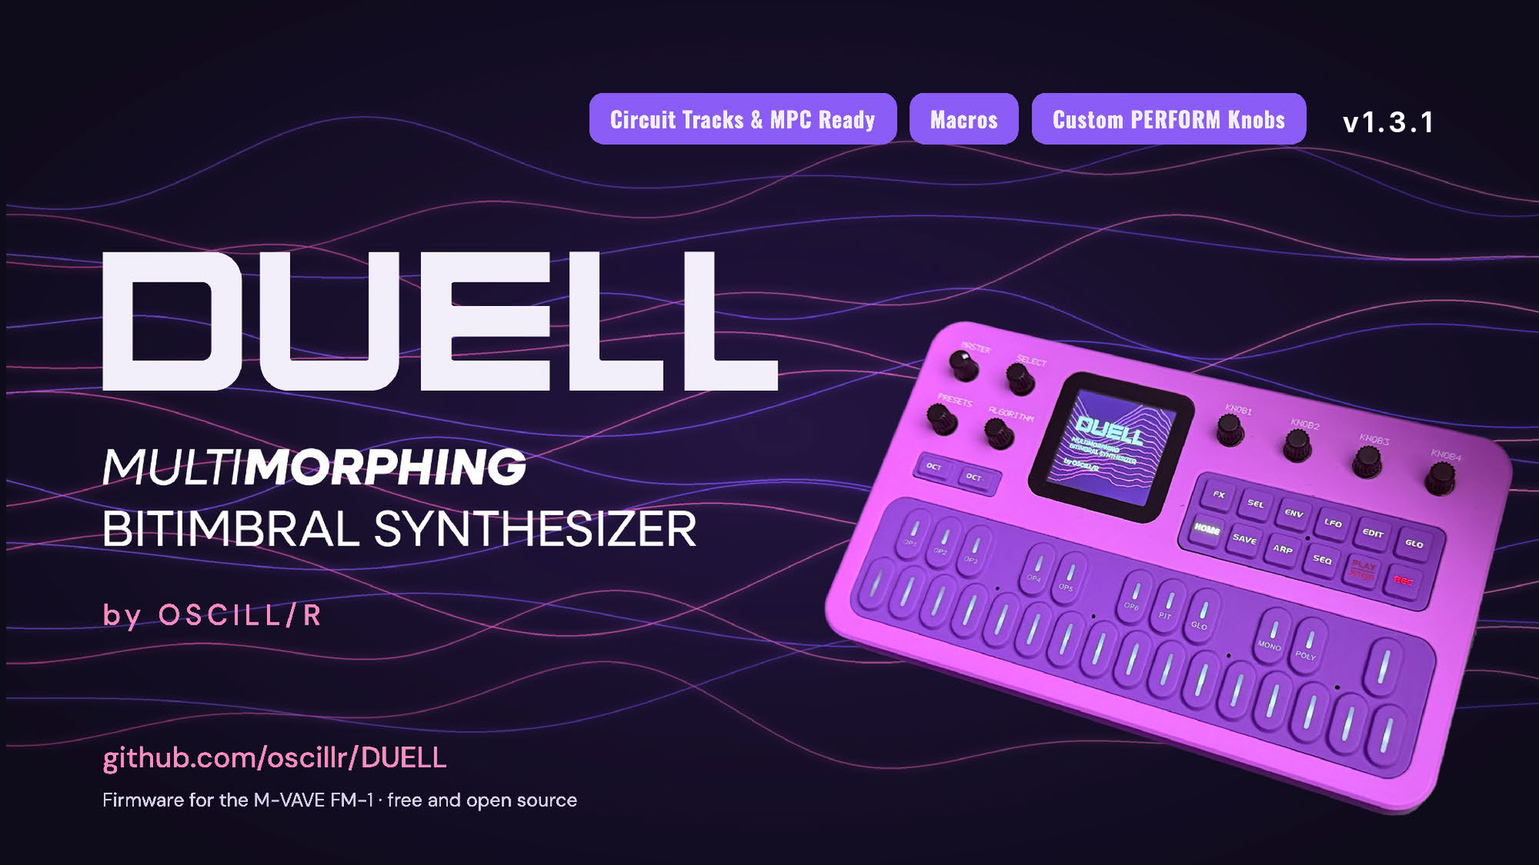
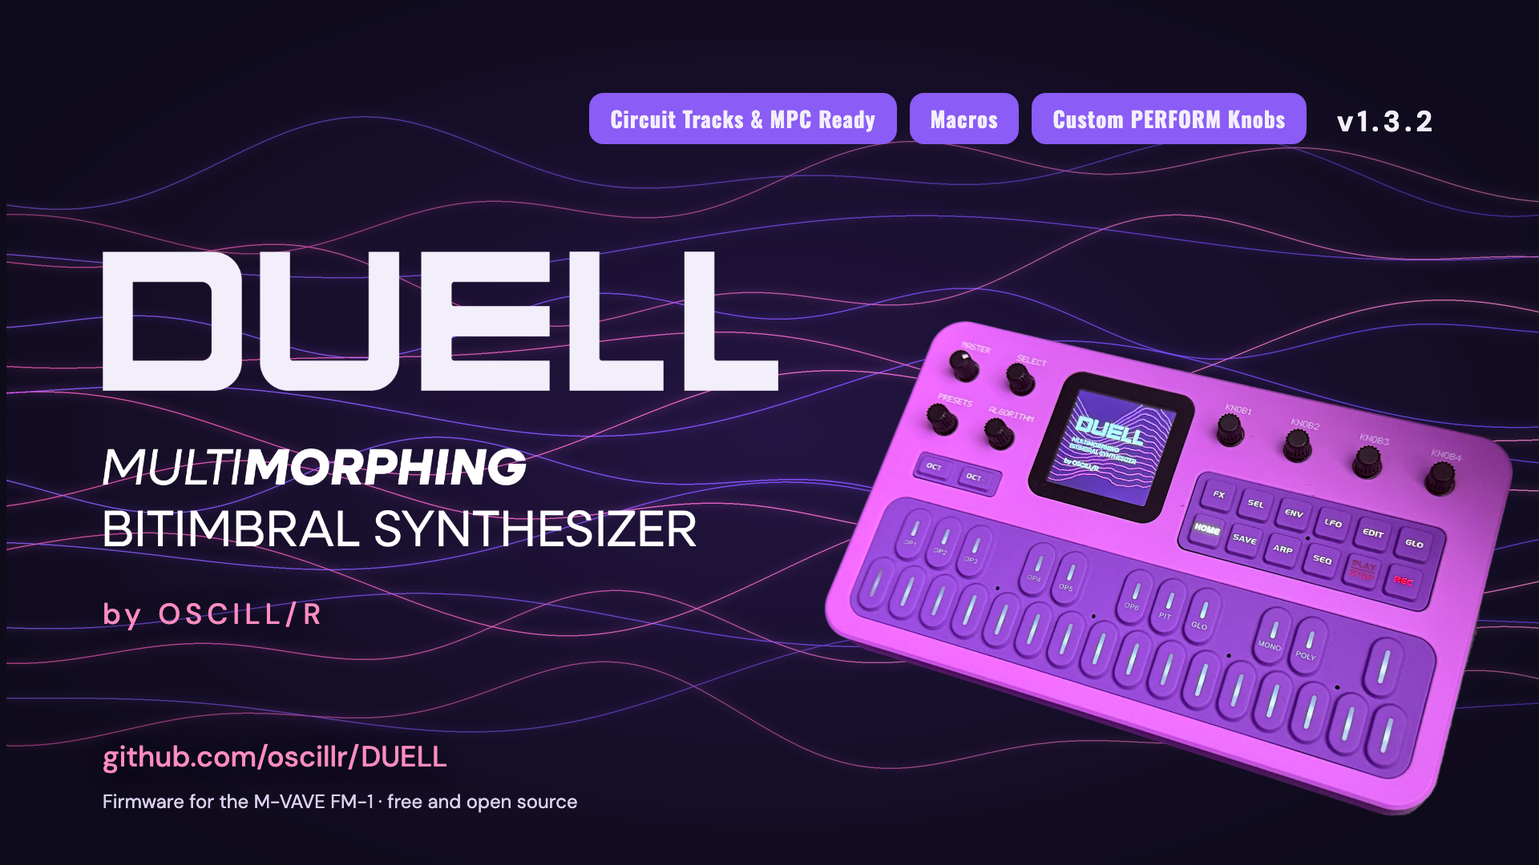
DUELL 1.3.2

diff --git a/duell/web/cheatsheet/index.html b/duell/web/cheatsheet/index.html
@@ -72,7 +72,7 @@ header .desc{display:block;width:210px;max-width:100%;height:auto;margin:22px 0 
  <p class="tag"><img class="desc" src="../editor/img/multimorphing-bitimbral-white.png" alt="MultiMorphing Bitimbral Synthesizer"></p>
  <p class="by">by OSCILL/R</p>
  <p class="sub">cheat sheet for the M-VAVE FM-1</p>
- <p class="stamp">checked against DUELL 1.3 &middot; community-style quick reference; full details in SPEC.md and docs/QUICKSTART.md</p>
+ <p class="stamp">checked against DUELL 1.3.2 &middot; community-style quick reference; full details in SPEC.md and docs/QUICKSTART.md</p>
  <p class="bar"><button type="button" onclick="window.print()">Print</button></p>
 </header>
 
@@ -145,7 +145,7 @@ header .desc{display:block;width:210px;max-width:100%;height:auto;margin:22px 0 
 </section>
 
 </div>
-<footer>DUELL &middot; MultiMorphing Bitimbral Synthesizer &middot; by OSCILL/R &middot; checked against DUELL 1.3.</footer>
+<footer>DUELL &middot; MultiMorphing Bitimbral Synthesizer &middot; by OSCILL/R &middot; checked against DUELL 1.3.2.</footer>
 </main>
 </body>
 </html>

diff --git a/duell/firmware/src/ui_draw.c b/duell/firmware/src/ui_draw.c
@@ -2440,8 +2440,15 @@ static void draw_columns(void)
                     k != EVK_ADD ? VAL(3u) : T_DIM, RATIO(d, enum_rank(d, v)), param_icon(d, v));
         return;
     }
-    if (cur_page()->graph == GR_TOOLS)                 /* TOOLS (grid_on 17): no cards, the three rows are the page (ui_graph.c graph_tools); the knob actions stay in ui.c */
+    if (cur_page()->graph == GR_TOOLS) {               /* TOOLS (grid_on 17): no cards, the three rows are the page (ui_graph.c graph_tools); the knob actions stay in ui.c */
+        char part[8] = "PART 1";                       /* (2026-11-17: the screen reader hears the three rows as graph_tools draws them, not the cards of the page before) */
+        part[5] = (char)('1' + song.sel % NTRK);
+        sp_card_set(0, "CLEAR PATTERN", part, "");
+        sp_card_set(1, "INITIALIZE SOUND", part, "");
+        sp_card_set(2, "RESTORE ALL PATCHES", up_count() ? "Every slot replaced" : "NOTHING TO RESTORE", "");
+        sp_card_set(3, "", "", "");
         return;
+    }
     if (cur_page()->scope == SC_PERF) {                /* PERFORM (ui_perform.c): MORPH SPACE FILTER DEPTH */
         if (AREA_ON) {                                 /* TEMPLATE 9 (PERFORM_NEW_LAYOUT_V4): what SELECT does here, after MORPH's value on knob 1's line (the footer's first row is gone) */
             k1_after_next = "SELECT = BALANCE";
@@ -2600,6 +2607,10 @@ static void draw_columns(void)
         char tag[4], nm[13];
         pat_label(k, tag, nm);
         draw_column(0, "SLOT", tag, "", VAL(0u), (int32_t)k * 1000 / (int32_t)(n > 1u ? n - 1u : 1u), ICON_X_PATTERN);
+        str_cpy(val, tag, sizeof val);                   /* (GitHub issue 2, 2026-11-17: the screen reader hears the slot AND its name, "SLOT P03 OFFBEAT") */
+        str_cpy(val + str_len(val), " ", 2);
+        str_cpy(val + str_len(val), nm, sizeof val - str_len(val));
+        sp_card_set(0, "SLOT", val, "");
         draw_act_column(1, "LOAD", T_THEME, ICON_AUTO);
         draw_act_column(2, "SAVE", T_THEME, ICON_AUTO);   /* (change list A.9 / H.8: ERASE is gone, SAVE is knob 3) */
         draw_column_hide(3);
@@ -2610,6 +2621,13 @@ static void draw_columns(void)
         int used = project_used(k);
         mu_label(val, k);
         draw_column(0, "SLOT", val, "", VAL(0u), (int32_t)k * 1000 / (int32_t)(MU_SLOTS - 1u), ICON_AUTO);
+        if (used) {                                      /* (GitHub issue 2, 2026-11-17: the screen reader hears the slot AND its name as the list shows it, "SLOT M03 PAD SPLIT"; an empty slot just its number) */
+            char nm[13];                                 /* (PROJ_NAME_LEN + 1: project.c, included after this file) */
+            project_name(k, nm);
+            str_cpy(val + str_len(val), " ", 2);
+            str_cpy(val + str_len(val), nm[0] ? nm : "USED", sizeof val - str_len(val));
+            sp_card_set(0, "SLOT", val, "");
+        }
         draw_act_column(1, "LOAD", used ? T_THEME : T_DIM, ICON_AUTO);
         draw_act_column(2, "SAVE", T_THEME, ICON_AUTO);   /* (change list A.9: ERASE is gone, SAVE is knob 3) */
         draw_column_hide(3);
@@ -2804,6 +2822,9 @@ static uint32_t splash_t0, splash_fr;
  * No RAM: the run list is walked from its start, only the pixels inside the strip are touched. */
 static void splash_logo_draw(int32_t y0, int32_t h)
 {
+#if BENCH_TRIM                                          /* (2026-11-17, bench builds only: BENCH_TRIM, the splash shows no logo so a 1.3.1 bench build fits) */
+    (void)y0, (void)h;
+#else
     uint16_t tx = T_TEXT;
     uint32_t i, p = 0;
     uint8_t gray = (tx >> 11) == (tx & 31u);            /* (GREY / MONO: one channel blended, so the pixel stays neutral) */
@@ -2823,6 +2844,7 @@ static void splash_logo_draw(int32_t y0, int32_t h)
         }
         p = e;
     }
+#endif
 }
 /* MENU > ABOUT's key hints (0.2.9, the owner: KNOB 1 scrolls, SELECT goes left and right between its sections; OCT- back, lit) */
 static const khint_t ABOUT_KEYS[2] = {{KC_K1, "SCROLL"}, {KC_SELECT, "HEADINGS"}};   /* (DUELL 1.1: SELECT jumps to the next heading: the logo, ABOUT, CREDITS, LICENSES) */

diff --git a/duell/firmware/src/bench.c b/duell/firmware/src/bench.c
@@ -1265,7 +1265,9 @@ static BENCH_FN int bench_input(uint32_t pressed, uint32_t notes)
 #ifdef BENCH_HOST
 static uint8_t bench_noreset;
 #endif
-#if BENCH_HEADLESS
+#if BENCH_HEADLESS && BENCH_TRIM
+#define TL_N 64u                /* (2026-11-17, BENCH_TRIM: the 1.3.1 bench build's RAM; a voice-check test sends about 40 events, 'full' if more) */
+#elif BENCH_HEADLESS
 #define TL_N 128u
 #else
 #define TL_N 256u
@@ -1428,6 +1430,7 @@ static uint32_t blseg[BLSEG_N][4][SG_N] BENCH_BSS;    /* (2026-11-08, the WAVE c
 static uint32_t blgap[BLSEG_N] BENCH_BSS;             /* .. and the time from the half before's start to this one's (the interrupt's own lateness), ticks */
 #endif
 static uint32_t blat_total BENCH_BSS;
+static struct { uint32_t s0, h0; uint8_t armed, l0, lfx_v, shed_v, held_v; } bgd BENCH_BSS;   /* (2026-11-17) the guard's first action in a test: voices + 1 (0 = never) */
 static BENCH_FN void bench_late(uint32_t us)
 {
     uint32_t i, bu = 0, bi = 0, n = blat_total++;
@@ -1483,6 +1486,19 @@ static BENCH_FN void bench_late_print(void)
         }
     }
 #endif
+    d = bench_put(b, "BENCH,GUARD,lfx_v ");             /* (2026-11-17) voices sounding at the first LIGHT FX / voice cut / held-note cut of the test, 0 = none; lfx_at_start */
+    d = bench_num(d, (int32_t)bgd.lfx_v - 1);
+    d = bench_put(d, ",shed_v ");
+    d = bench_num(d, (int32_t)bgd.shed_v - 1);
+    d = bench_put(d, ",held_v ");
+    d = bench_num(d, (int32_t)bgd.held_v - 1);
+    d = bench_put(d, ",held_n ");
+    d = bench_num(d, (int32_t)(shed_held - bgd.h0));
+    d = bench_put(d, ",lfx_at_start ");
+    d = bench_num(d, (int32_t)bgd.l0);
+    bench_put(d, "\r\n");
+    BENCH_REPLY(b);
+    memset(&bgd, 0, sizeof bgd);
     memset(blat, 0, sizeof blat);
     blat_total = 0;
 #if defined(DUELL_TWOCORE) && DUELL_TWOCORE && TC_MEAS
@@ -1564,9 +1580,18 @@ static BENCH_FN void bench_half(void)
     }
     fm1_irq_on();
     if (btl.win) {
-        btl.vsum += bench_voices();
+        uint32_t v = bench_voices();
+        btl.vsum += v;
         btl.vn++;
         btl.lfn += ovl_lite != 0u;
+        if (!bgd.armed)                                 /* (2026-11-17, owner "measure it": the voices sounding at the guard's first action of the test) */
+            bgd.armed = 1, bgd.s0 = shed_count, bgd.h0 = shed_held, bgd.l0 = ovl_lite != 0u;
+        if (!bgd.lfx_v && ovl_lite)
+            bgd.lfx_v = (uint8_t)(v + 1u);
+        if (!bgd.shed_v && shed_count != bgd.s0)
+            bgd.shed_v = (uint8_t)(v + 1u);
+        if (!bgd.held_v && shed_held != bgd.h0)
+            bgd.held_v = (uint8_t)(v + 1u);
     }
     if (btl.win && (h >= btl.m1 || h >= btl.dur)) {      /* the window closes: the counters as they are at the start of this half */
         btl.n1 = cpu_n, btl.s1 = cpu_sum, btl.c1 = cpu_miss, btl.d1 = shed_count, btl.pk1 = cpu_pk;
@@ -2264,9 +2289,11 @@ static BENCH_FN void bench_con(const char *p)
             bench_tm_set((uint32_t)n, 0xFFFFFFFFu);
 #if TC_MEAS
         bd_pool_lim_now = BD_POOL_LIM;                 /* (2026-11-09: `pool`) */
+        shed_pct = 85u;                                /* (2026-11-17: `shed`) */
 #endif
         bench_tm_clear();
 #endif
+        memset(&bgd, 0, sizeof bgd);
         memset(blat, 0, sizeof blat);
         blat_total = 0;
         bench_say("OK reset", 0, 0);
@@ -2332,6 +2359,17 @@ static BENCH_FN void bench_con(const char *p)
         }
         bd_pool_lim_now = (uint32_t)n;
         bench_say("OK pool", x, 0);
+        return;
+    }
+    if (bench_ieq(w, "shed")) {                        /* 2026-11-17: shed N (50..100), the % of a half above which two halves in a row cut a voice and turn LIGHT FX on (audio.c, normal builds 85) */
+        int32_t n = -1;
+        x[0] = 0;
+        if (!bench_tok(&p, x, sizeof x) || !bench_int(x, &n) || n < 50 || n > 100) {
+            bench_err("usage: shed 50..100");
+            return;
+        }
+        shed_pct = (uint32_t)n;
+        bench_say("OK shed", x, 0);
         return;
     }
 #endif

diff --git a/duell/firmware/src/budget.c b/duell/firmware/src/budget.c
@@ -67,7 +67,12 @@ static const struct { const engine_t *e; uint16_t c; } BD_ENG[] = {   /* (cal) *
  * swept while chords play, the limits on) then showed which engine really has that room: LOFI none of the overload guards at pool 9000 (16 voices), NOISE and VOICE the guards at 8000
  * (VOICE a missed half at 9000), WHEEL the guards at 8000, WAVE and PHASE missed halves at 7500 / 8000 (2026-11-15/16). So only LOFI's voice is priced lower in the pool: 73 % keeps
  * LOFI everything-on at 9 (unit 11) and with the six macros + a MORPH route moving at 11 (unit 11). The other engines stay at the table (their numbers were at or under the unit's) */
-#define BD_VPCT_LOFI 73u
+/* 1.4 (2026-11-18, owner: "set the true value", then the octopus test; report working docs/reports/voice-calibration_2026-11-16.md): LOFI everything on, a chord of N notes
+ * held while every knob is swept (bench LOFI-OCTOPUS, B1117E, the brake as shipped at 85 %, 3 runs each): 6, 7, 8 notes no dropout and no brake action; 9 the brake cuts a note;
+ * 10 a dropout. So 8. A LOFI voice = its engine at the table + the rest at BD_VPCT_LOFI + its SUB at BD_SPCT_LOFI (the SUB measured cheap on LOFI: bench LOFI-PRICE, B1116D).
+ * 8 for 99 .. 104 %, also with the macros turning SUB and SAT down: 101 */
+#define BD_VPCT_LOFI 101u
+#define BD_SPCT_LOFI 17u
 #define BD_FADE 66u             /* .. an engine choice cross-faded, both shapes made (old: 2 %) */
 /* THE POOL'S REAL ROOM (owner 2026-11-07: "at all times we don't let them play more"; measured, POOL-SWEEP on the unit, bench_runs/pool-sweep_2026-11-07_b1107b, report
  * working docs/reports/voice-numbers-check_2026-11-07.md). Both parts the same plain sound, two cores, the heavy globals: the blocks go very late from core 0 at about 68 % on its meter while
@@ -123,6 +128,7 @@ typedef struct {                /* one part's items, host instructions a sample 
     uint32_t need;              /* the fixed need in its own voices: 0 POLY, 1 MONO / LEGATO, UNISON its stack (= cap) */
     uint32_t comb;              /* a TWIN COMB sounds (live or at a MORPH end) */
     uint32_t on;                /* sounds at all (not muted) */
+    uint32_t sub;               /* the SUB inside ext, a voice (budget_feat.c; 1.4: priced apart for LOFI) */
     uint32_t vpct;              /* the pool's price of one voice, % of the table's (BD_VPCT: the engine's correction from the unit; 100 = the table) */
 } bd_part_t;
 typedef struct { uint32_t idle, fx; bd_part_t p[2]; } bd_t;   /* the global items too */
@@ -326,7 +332,8 @@ static void budget_pool(const bd_t *b, bd_pool_t *o)
     uint32_t c[2], fx[2], need[2], g = BD_U(b->idle + b->fx), lim = BD_POOL_LIM_NOW, p, r0, r1, cm, cl, nc;   /* (the pool's measured room a core, not BUDGET_LIMIT) */
     for (p = 0; p < 2u; p++) {
         const bd_part_t *r = &b->p[p];
-        c[p] = r->on ? (BD_U(r->eng + r->filt + r->ext + BD_POOL_V) * r->vpct + 99u) / 100u : 0;   /* (+ core 0's own work a voice, measured: BD_POOL_V; the engine's correction BD_VPCT, rounded up) */
+        c[p] = !r->on ? 0 : r->vpct == 100u ? BD_U(r->eng + r->filt + r->ext + BD_POOL_V)
+             : BD_U(r->eng + BD_POOL_V) + (BD_U(r->filt + r->ext - r->sub) * r->vpct + 99u) / 100u + (BD_U(r->sub) * BD_SPCT_LOFI + 99u) / 100u;   /* (+ core 0's own work a voice, measured: BD_POOL_V; the engine's correction BD_VPCT, rounded up) */
         fx[p] = r->on ? BD_U(r->ins + r->sat + r->eq + r->misc + r->base) : 0;
         need[p] = r->on ? r->need : 0;
     }

diff --git a/duell/firmware/src/audio.c b/duell/firmware/src/audio.c
@@ -160,6 +160,18 @@ static uint8_t shed_over;                              /* bit k: the half k halv
 #define SHED_TICKS ((HALF_FRAMES * 1000000u / FS) * 85u / 100u * FM1_TICKS_PER_US)   /* 85 % of a half */
 #define SHED_FULL_TICKS ((HALF_FRAMES * 1000000u / FS) * FM1_TICKS_PER_US)                 /* the whole half */
 static uint32_t shed_count;
+#if DUELL_BENCH
+static uint32_t shed_pct = 85u;                         /* (2026-11-17, owner: the brake's line as a bench setting, `tune shed N`; bench reset puts 85 back) */
+#define SHED_LINE ((HALF_FRAMES * 1000000u / FS) * shed_pct / 100u * FM1_TICKS_PER_US)
+#else
+#define SHED_LINE SHED_TICKS
+#endif
+#if DUELL_BENCH
+static uint32_t shed_held;                              /* (2026-11-17, bench only: held notes the 85 % rule cut, bench.c BENCH,GUARD) */
+#define SHED_HELD_INC() (shed_held++)
+#else
+#define SHED_HELD_INC() ((void)0)
+#endif
 
 /* end of a half: all = its ticks, TIMER5 nested in it included -> the render alone in us. The deadline sees
  * both; shed after 2 overloaded halves in a row (out of line: keeps the ISR's render loops as they were) */
@@ -171,7 +183,7 @@ static uint32_t shed_count;
 static uint32_t shed_check(uint32_t all);
 static __attribute__((noinline)) uint32_t shed_check(uint32_t all)
 {
-    shed_over = (uint8_t)(shed_over << 1 | (all > SHED_TICKS));
+    shed_over = (uint8_t)(shed_over << 1 | (all > SHED_LINE));
 #if defined(BENCH_NOLIMIT)                              /* (bench only, 2026-11-08: no voice shed, no LIGHT FX: the test sees how far the unit really goes) */
     if (0)
 #else
@@ -257,6 +269,7 @@ static void shed_voice(void)
     if (best) {
         voice_kill(best);
         shed_count++;
+        SHED_HELD_INC();
     }
 }
 

diff --git a/duell/firmware/src/announce.c b/duell/firmware/src/announce.c
@@ -49,6 +49,15 @@ enum { ANN_HELLO = 1, ANN_BYE = 2, ANN_WHERE = 3, ANN_SAY = 16 };
 
 static int ann_wire_send(const uint8_t *p, uint32_t n);
 
+#if BENCH_TRIM   /* (2026-11-17, owner: "Bench build, no reader") bench builds only: no screen reader (and no splash logo, ui_draw.c), so a 1.3.1 bench build fits; the unit never answers a reader */
+static int ann_on(void) { return 0; }
+static void ann_say(const char *a, const char *b, uint32_t flags) { (void)a, (void)b, (void)flags; }
+static void ann_later(const char *s, uint32_t flags, uint32_t quiet_ms, uint32_t now) { (void)s, (void)flags, (void)quiet_ms, (void)now; }
+static int ann_where(void) { return 0; }
+static void ann_tick(uint32_t now) { (void)now; }
+static int ann_frame(const uint8_t *p, uint32_t n, uint32_t now) { (void)p, (void)n, (void)now; return 0; }
+#else
+
 static struct {
     uint8_t on, where;
     uint32_t heard;                           /* the last HELLO */
@@ -165,3 +174,4 @@ static int ann_frame(const uint8_t *p, uint32_t n, uint32_t now)
     }
     return 1;
 }
+#endif /* BENCH_TRIM */

diff --git a/duell/tools/build.py b/duell/tools/build.py
@@ -310,6 +310,8 @@ def build_app():
             flags.append("-DBENCH_HEADLESS=1")
         if os.environ.get("BENCH_NOLIMIT") == "1":      # (2026-11-08, owner: the voice limits off to see how far the unit goes) no shedding, no LIGHT FX, no VOICE CAP; bench builds only
             flags.append("-DBENCH_NOLIMIT=1")
+        if os.environ.get("BENCH_TRIM") == "1":     # (2026-11-17, owner: "Bench build, no reader") no screen reader (announce.c stubs), so a bench build fits next to the reader of 1.3.1; bench builds only
+            flags.append("-DBENCH_TRIM=1")
         if os.environ.get("BENCH_T5_PRIO"):             # BENCHVI (2026-11-06, the WHEEL crash): TIMER5 at this priority (3 = it never nests in the audio interrupt); bench builds only
             flags.append("-DBENCH_T5_PRIO=" + str(int(os.environ["BENCH_T5_PRIO"])))
         if os.environ.get("BENCH_WX"):                  # (2026-11-06, the WHEEL crash) test switches, bench builds only: 1 = core 1 held after its start, 2 = interrupts off while a half renders, 4 = wheel_render moved by 2 bytes

diff --git a/duell/tools/bench_run.py b/duell/tools/bench_run.py
@@ -235,8 +235,8 @@ def parse_suite(text):
             elif k == "set":
                 cur.setup.append(("set", tok[1:]))
             elif k == "tune":
-                if not ((tok[1] in ("slack", "calm", "pause", "lrun", "vrun", "floor", "pool") and len(tok) == 3) or (tok[1] == "core1" and len(tok) == 3 and tok[2] in ("on", "off")) or (tok[1] == "vwin" and len(tok) in (3, 4))):
-                    raise SuiteError("tune slack N | calm MS | pause on|off | lrun N | vrun N | vwin K [MS] | floor 0|1 | core1 off|on | pool N")
+                if not ((tok[1] in ("slack", "calm", "pause", "lrun", "vrun", "floor", "pool", "shed") and len(tok) == 3) or (tok[1] == "core1" and len(tok) == 3 and tok[2] in ("on", "off")) or (tok[1] == "vwin" and len(tok) in (3, 4))):
+                    raise SuiteError("tune slack N | calm MS | pause on|off | lrun N | vrun N | vwin K [MS] | floor 0|1 | core1 off|on | pool N | shed N")
                 cur.setup.append(("tune", tok[1:]))
             elif k == "ref":
                 cur.ref = (tok[1], tok[2])

diff --git a/duell/firmware/src/ui_speak.c b/duell/firmware/src/ui_speak.c
@@ -11,6 +11,10 @@
  *   - the sound changing (PRESETS): its slot number and name
  *   - messages: ui_say (ui.c) says them at once
  * Nothing here runs while no reader listens (ann_on). Included at the end of ui_layer.c: every build with the UI has it. */
+#if BENCH_TRIM   /* (2026-11-17, owner: "Bench build, no reader") bench builds only: no screen reader (and no splash logo, ui_draw.c) (announce.c stubs too) */
+static void sp_card_set(uint32_t c, const char *label, const char *val, const char *unit) { (void)c, (void)label, (void)val, (void)unit; }
+static void ui_speak(void) {}
+#else
 #define SP_MAX 241u
 #define SP_CARD 40u
 static char sp_card[4][SP_CARD];      /* the four cards as draw_column last had them, "LABEL value unit" ("" = no card) */
@@ -265,3 +269,4 @@ static void ui_speak(void)
         ann_later(sp_buf, ANN_NOW, 200u, now);
     }
 }
+#endif /* BENCH_TRIM */

diff --git a/duell/firmware/src/budget_feat.c b/duell/firmware/src/budget_feat.c
@@ -76,7 +76,7 @@ static void bd_feat(const track_t *t, bd_part_t *r, const bd_tw_t *wm)
         if (p[P_VOICE] == V_UNISON)
             r->misc += c;
         else
-            r->ext += c;
+            r->ext += c, r->sub = c;
     }
 
     /* CYCLE (job F): the CYCLE envelope while an active slot reads it (t->cy) */

diff --git a/README.md b/README.md
@@ -3,7 +3,7 @@
 **MultiMorphing Bitimbral Synthesizer**  
 **by OSCILL/R**
 
-**Two synths in one small box.** DUELL is free, open-source firmware (GPL-3.0) for the M-VAVE FM-1. It turns the FM-1 into a bitimbral instrument: two complete parts, three ways to play them together, and a morph that glides between two versions of every sound. This is **DUELL 1.3.1**.
+**Two synths in one small box.** DUELL is free, open-source firmware (GPL-3.0) for the M-VAVE FM-1. It turns the FM-1 into a bitimbral instrument: two complete parts, three ways to play them together, and a morph that glides between two versions of every sound. This is **DUELL 1.3.2**.
 
 **Try it in your browser, no FM-1 needed:** <https://oscillr.github.io/DUELL/emu/>
 
@@ -18,7 +18,7 @@
 3. While the new firmware is written, the unit shows the **update screen**: the DUELL word over moving wave lines, WRITING, a percent number, a bar of 20 segments and DO NOT SWITCH OFF. Do not unplug until it is done. If the screen stays dark the write may still be running: wait for the installer to say Done.
 4. Details, the checklist and the way back to the official firmware: [docs/INSTALL.md](docs/INSTALL.md). If something goes wrong: [docs/RECOVERY.md](docs/RECOVERY.md).
 
-The package is `duell-1.3.1.fwsc` (compare its SHA-256 with `SHA256SUMS` on the release page).
+The package is `duell-1.3.2.fwsc` (compare its SHA-256 with `SHA256SUMS` on the release page).
 
 ## What is in it
 
@@ -71,7 +71,7 @@ A MIDI channel for each part. Clock in (AUTO, INT, USB or TRS), program change, 
 The unit shows up as **DUELL** (USB-MIDI; USB audio input as set in SETTINGS). The web editor, <https://oscillr.github.io/DUELL/editor/> (Chrome or Edge, unit connected), edits both parts live: all parameters, the ENGINE selector, the patch library for the 128 slots (export, import, drag between slots, DX7 `.syx` import), the MULTIS, a piano roll for the patterns, wavetable files and a Backup page that saves and restores everything (patches, multis, patterns, wavetables, settings). The editor has **no MIDI MAP tab yet**; assignments are made on the unit with MIDI LEARN. The editor's SETTINGS follow the unit's sections. Try the editor without a unit with `?mock=1` on its address.
 
 ### Screen reader
-DUELL says what is on its screen with Charles Vestal's [FM-1 Screen Reader](https://charlesvestal.github.io/fm1-reader/) (Chrome or Edge, unit on USB): the page and its knobs, each knob as you turn it, SETTINGS rows, messages, questions and the first-start guide, through your own screen reader or the page's voice. Without the reader page DUELL sends nothing. The [web emulator](https://oscillr.github.io/DUELL/emu/) speaks too.
+DUELL says what is on its screen with Charles Vestal's [FM-1 Screen Reader](https://charlesvestal.github.io/fm1-reader/) (Chrome or Edge, unit on USB): the page and its knobs, each knob as you turn it, SETTINGS rows, the names of patterns and multis as you save, messages, questions and the first-start guide, through your own screen reader or the page's voice. Without the reader page DUELL sends nothing. The [web emulator](https://oscillr.github.io/DUELL/emu/) speaks too.
 
 ## MIDI CC map
 
@@ -168,7 +168,7 @@ One map for the whole unit. A CC on a part's channel moves that part; "both part
 
 **Learn-only parameters** have no CC of their own: the matrix choices and amounts, EQ, ARP and SEQ set-up, DUCK, the LFOs beyond the vibrato rows, the voice set-up, the master settings, UNDO, the four MORPH switches (TARGET, SMART, ARP, PITCH) and the settings that belong to both parts (BALANCE, XFADE, SPLIT, MODE). Teach a CC to one with SETTINGS > MIDI > MIDI LEARN on the unit.
 
-## What is not in 1.3.1
+## What is not in 1.3.2
 The editor's MIDI MAP tab, switching multis with preset changes, the SUB HARMONICS card (switched off). The full list is in [docs/KNOWN_LIMITS.md](docs/KNOWN_LIMITS.md).
 
 ## Build and test

diff --git a/RELEASE_NOTES.md b/RELEASE_NOTES.md
@@ -1,16 +1,16 @@
-# DUELL 1.3.1
+# DUELL 1.3.2
 
 **DUELL**
 **MultiMorphing Bitimbral Synthesizer**
 **by OSCILL/R**
 
-DUELL 1.3.1 is a small update for the M-VAVE FM-1: DUELL can now speak.
+DUELL 1.3.2 is a small update for the M-VAVE FM-1: the screen reader says more.
 
-## What is new
-- **Screen reader support.** Open Charles Vestal's [FM-1 Screen Reader](https://charlesvestal.github.io/fm1-reader/) page in Chrome or Edge with your FM-1 on USB, and DUELL says what is on its screen: the page and its knobs, each knob as you turn it, SETTINGS rows, messages, questions and the first-start guide. Use your own screen reader (VoiceOver, NVDA, JAWS, TalkBack) or the page's own voice. Without the reader page DUELL stays silent. Thanks for the idea, @woodjackmusic-JD ([issue #2](https://github.com/oscillr/DUELL/issues/2)).
-- **The web emulator speaks too.** Its new Screen reader section reads the screen with your screen reader or its own voice.
+## What has changed
+- **The screen reader says the names of patterns and multis** when you save them on SAVE > PATTERNS and SAVE > MULTIS, not only the slot number, and it reads the three rows of TOOLS. Thanks for the idea, @woodjackmusic-JD ([issue #2](https://github.com/oscillr/DUELL/issues/2)).
+- **LOFI's AVAILABLE VOICES** now shows what LOFI really plays with everything on, while you turn the knobs.
 
-Everything new in 1.3 is in the [changelog](https://github.com/oscillr/DUELL/blob/main/CHANGELOG.md).
+Everything new in 1.3 and 1.3.1 is in the [changelog](https://github.com/oscillr/DUELL/blob/main/CHANGELOG.md).
 
 ## Read this before you flash
 - DUELL has run on **two FM-1 units, the author's**, and more than 100 people have installed it through the Firmware Hub. The FM-1 has a single copy of its firmware and no known rollback besides the way back to the official firmware (V15 or V16).
@@ -21,11 +21,11 @@ Everything new in 1.3 is in the [changelog](https://github.com/oscillr/DUELL/blo
 ## Assets
 | File | What |
 |---|---|
-| `duell-1.3.1.fwsc` | the device package (the installer page loads this one) |
+| `duell-1.3.2.fwsc` | the device package (the installer page loads this one) |
 | `SHA256SUMS` | checksums |
 
 ```
-SHA256: 36184f90ad6a02e69850aedcb13084711b4eed2679eacdaaa2703efc6f810440  duell-1.3.1.fwsc
+SHA256: 5b5834ba2423dd4296a49445aee02727ff9ee1cae4bd8daaae63f6397f90ee9b  duell-1.3.2.fwsc
 ```
 
 ## Links
